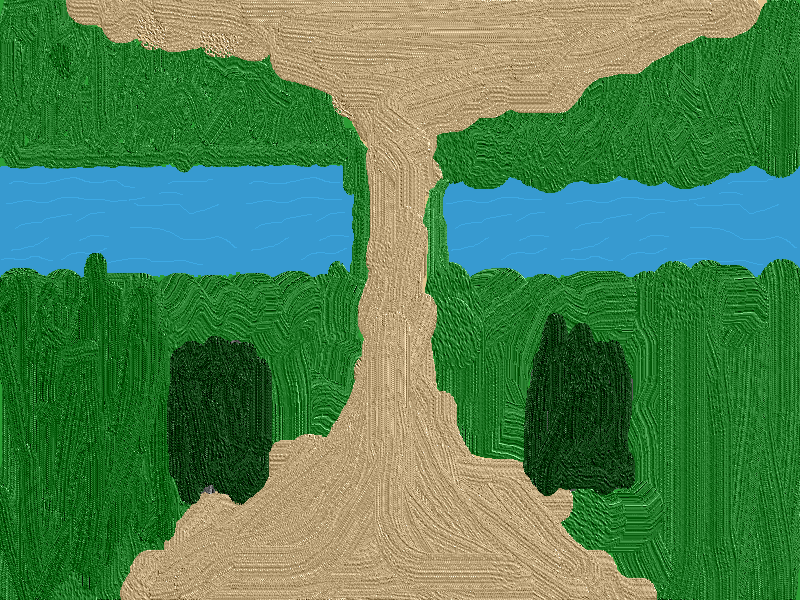
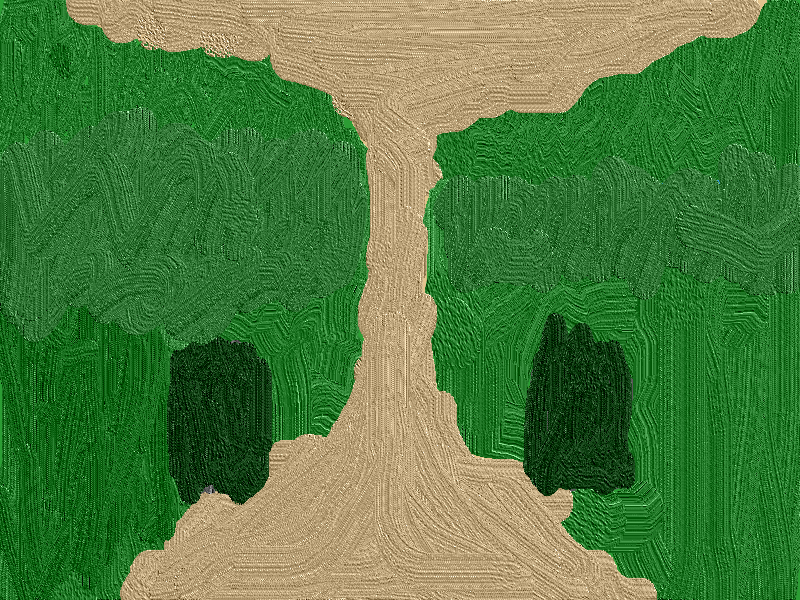
Removed 2 Lake Obstacles to make avoidance easier

Changed region(s): [[0.0, 0.18, 0.4688, 0.6], [0.5312, 0.24, 1.0, 0.51]]

diff --git a/src/PlayScene.cpp b/src/PlayScene.cpp
@@ -867,68 +867,68 @@ void PlayScene::update()
 			}
 		}
 	}
-	//Avoidance TODO
-	for (int i = 0; i < Enemies; i++)
-	{
-		if(m_pEnemy[i]->patrol==false)
-		{
-			for (int y = 0; y < obstacles; y++)
-			{
-				//Left whishker
-				if (CollisionManager::lineRectCheck(m_pEnemy[i]->m_LWhishker.Start(),
-					m_pEnemy[i]->m_LWhishker.End(), m_field[y]->getTransform()->position-
-					glm::vec2(m_field[y]->getWidth()/2, m_field[y]->getHeight()/2),
-					m_field[y]->getWidth(), m_field[y]->getHeight()))
-				{
-					m_pEnemy[i]->ColObsL = y;
-					m_pEnemy[i]->tRight = true;
-					m_pEnemy[i]->avoidance = true;
-				}
-				if(m_pEnemy[i]->ColObsL!=100)
-				{
-					if (!(CollisionManager::lineRectCheck(m_pEnemy[i]->m_LWhishker.Start(),
-						m_pEnemy[i]->m_LWhishker.End(), m_field[m_pEnemy[i]->ColObsL]->getTransform()->position -
-						glm::vec2(m_field[m_pEnemy[i]->ColObsL]->getWidth() / 2, m_field[m_pEnemy[i]->ColObsL]->getHeight() / 2),
-						m_field[m_pEnemy[i]->ColObsL]->getWidth(), m_field[m_pEnemy[i]->ColObsL]->getHeight())))
-					{
-						m_pEnemy[i]->tRight = false;
-						m_pEnemy[i]->avocd = 0;
-						if(m_pEnemy[i]->avocd>1)
-						{
-							m_pEnemy[i]->avoidance = false;
-							m_pEnemy[i]->ColObsL = 100;
-						}
-					}
-				}
-				//Right Whishker
-				if (CollisionManager::lineRectCheck(m_pEnemy[i]->m_RWhishker.Start(),
-					m_pEnemy[i]->m_RWhishker.End(), m_field[y]->getTransform()->position -
-					glm::vec2(m_field[y]->getWidth() / 2, m_field[y]->getHeight() / 2),
-					m_field[y]->getWidth(), m_field[y]->getHeight()))
-				{
-					m_pEnemy[i]->ColObsR = y;
-					m_pEnemy[i]->avoidance = true;
-					m_pEnemy[i]->tLeft = true;
-				}
-				if (m_pEnemy[i]->ColObsR != 100)
-				{
-					if (!(CollisionManager::lineRectCheck(m_pEnemy[i]->m_RWhishker.Start(),
-						m_pEnemy[i]->m_RWhishker.End(), m_field[m_pEnemy[i]->ColObsR]->getTransform()->position -
-						glm::vec2(m_field[m_pEnemy[i]->ColObsR]->getWidth() / 2, m_field[m_pEnemy[i]->ColObsR]->getHeight() / 2),
-						m_field[m_pEnemy[i]->ColObsR]->getWidth(), m_field[m_pEnemy[i]->ColObsR]->getHeight())))
-					{
-						m_pEnemy[i]->tLeft = false;
-						m_pEnemy[i]->avocd = 0;
-						if (m_pEnemy[i]->avocd > 1)
-						{
-							m_pEnemy[i]->avoidance = false;
-							m_pEnemy[i]->ColObsL = 100;
-						}
-					}
-				}
-			}
-		}
-	}
+	////Avoidance TODO
+	//for (int i = 0; i < Enemies; i++)
+	//{
+	//	if(m_pEnemy[i]->patrol==false)
+	//	{
+	//		for (int y = 0; y < obstacles; y++)
+	//		{
+	//			//Left whishker
+	//			if (CollisionManager::lineRectCheck(m_pEnemy[i]->m_LWhishker.Start(),
+	//				m_pEnemy[i]->m_LWhishker.End(), m_field[y]->getTransform()->position-
+	//				glm::vec2(m_field[y]->getWidth()/2, m_field[y]->getHeight()/2),
+	//				m_field[y]->getWidth(), m_field[y]->getHeight()))
+	//			{
+	//				m_pEnemy[i]->ColObsL = y;
+	//				m_pEnemy[i]->tRight = true;
+	//				m_pEnemy[i]->avoidance = true;
+	//			}
+	//			if(m_pEnemy[i]->ColObsL!=100)
+	//			{
+	//				if (!(CollisionManager::lineRectCheck(m_pEnemy[i]->m_LWhishker.Start(),
+	//					m_pEnemy[i]->m_LWhishker.End(), m_field[m_pEnemy[i]->ColObsL]->getTransform()->position -
+	//					glm::vec2(m_field[m_pEnemy[i]->ColObsL]->getWidth() / 2, m_field[m_pEnemy[i]->ColObsL]->getHeight() / 2),
+	//					m_field[m_pEnemy[i]->ColObsL]->getWidth(), m_field[m_pEnemy[i]->ColObsL]->getHeight())))
+	//				{
+	//					m_pEnemy[i]->tRight = false;
+	//					m_pEnemy[i]->avocd = 0;
+	//					if(m_pEnemy[i]->avocd>1)
+	//					{
+	//						m_pEnemy[i]->avoidance = false;
+	//						m_pEnemy[i]->ColObsL = 100;
+	//					}
+	//				}
+	//			}
+	//			//Right Whishker
+	//			if (CollisionManager::lineRectCheck(m_pEnemy[i]->m_RWhishker.Start(),
+	//				m_pEnemy[i]->m_RWhishker.End(), m_field[y]->getTransform()->position -
+	//				glm::vec2(m_field[y]->getWidth() / 2, m_field[y]->getHeight() / 2),
+	//				m_field[y]->getWidth(), m_field[y]->getHeight()))
+	//			{
+	//				m_pEnemy[i]->ColObsR = y;
+	//				m_pEnemy[i]->avoidance = true;
+	//				m_pEnemy[i]->tLeft = true;
+	//			}
+	//			if (m_pEnemy[i]->ColObsR != 100)
+	//			{
+	//				if (!(CollisionManager::lineRectCheck(m_pEnemy[i]->m_RWhishker.Start(),
+	//					m_pEnemy[i]->m_RWhishker.End(), m_field[m_pEnemy[i]->ColObsR]->getTransform()->position -
+	//					glm::vec2(m_field[m_pEnemy[i]->ColObsR]->getWidth() / 2, m_field[m_pEnemy[i]->ColObsR]->getHeight() / 2),
+	//					m_field[m_pEnemy[i]->ColObsR]->getWidth(), m_field[m_pEnemy[i]->ColObsR]->getHeight())))
+	//				{
+	//					m_pEnemy[i]->tLeft = false;
+	//					m_pEnemy[i]->avocd = 0;
+	//					if (m_pEnemy[i]->avocd > 1)
+	//					{
+	//						m_pEnemy[i]->avoidance = false;
+	//						m_pEnemy[i]->ColObsL = 100;
+	//					}
+	//				}
+	//			}
+	//		}
+	//	}
+	//}
 
 		////Win Condition
 	if (m_pPlayer->isEnabled() == false)
@@ -1309,30 +1309,30 @@ void PlayScene::start()
 		addChild(m_field[0], 1);
 		m_pMap.push_back(m_field[0]);
 
+		//m_field[1] = new TileC("../Assets/grid/River120.png", "120");
+		//m_field[1]->getTransform()->position = m_getTile(4, 5)->getTransform()->position + offsetTiles1;
+		//addChild(m_field[1], 1);
+		//m_pMap.push_back(m_field[1]);
+
 		m_field[1] = new TileC("../Assets/grid/River120.png", "120");
-		m_field[1]->getTransform()->position = m_getTile(4, 5)->getTransform()->position + offsetTiles1;
+		m_field[1]->getTransform()->position = m_getTile(7, 5)->getTransform()->position + offsetTiles1;
 		addChild(m_field[1], 1);
 		m_pMap.push_back(m_field[1]);
 
-		m_field[2] = new TileC("../Assets/grid/River120.png", "120");
-		m_field[2]->getTransform()->position = m_getTile(7, 5)->getTransform()->position + offsetTiles1;
-		addChild(m_field[2], 1);
+		m_field[2] = new TileC("/Assets/grid/River120.png", "120");
+		m_field[2]->getTransform()->position = m_getTile(12, 5)->getTransform()->position + offsetTiles1;
+		addChild(m_field[2], 2);
 		m_pMap.push_back(m_field[2]);
 
-		m_field[3] = new TileC("/Assets/grid/River120.png", "120");
-		m_field[3]->getTransform()->position = m_getTile(12, 5)->getTransform()->position + offsetTiles1;
-		addChild(m_field[3], 2);
+		//m_field[3] = new TileC("../Assets/grid/River120.png", "120");
+		//m_field[3]->getTransform()->position = m_getTile(15, 5)->getTransform()->position + offsetTiles1;
+		//addChild(m_field[3], 1);
+		//m_pMap.push_back(m_field[3]);
+
+		m_field[3] = new TileC("../Assets/grid/River120.png", "120");
+		m_field[3]->getTransform()->position = m_getTile(18, 5)->getTransform()->position + offsetTiles1;
+		addChild(m_field[3], 1);
 		m_pMap.push_back(m_field[3]);
-
-		m_field[4] = new TileC("../Assets/grid/River120.png", "120");
-		m_field[4]->getTransform()->position = m_getTile(15, 5)->getTransform()->position + offsetTiles1;
-		addChild(m_field[4], 1);
-		m_pMap.push_back(m_field[4]);
-
-		m_field[5] = new TileC("../Assets/grid/River120.png", "120");
-		m_field[5]->getTransform()->position = m_getTile(18, 5)->getTransform()->position + offsetTiles1;
-		addChild(m_field[5], 1);
-		m_pMap.push_back(m_field[5]);
 	}
 
 	//Destructibles
@@ -1721,18 +1721,12 @@ void PlayScene::m_buildGridSight()
 			addChild(path_node, 5); // 04 86
 			//Exceptions and creation
 			{
-				if ((col == 0 && row == 4) || (col == 1 && row == 4) || (col == 2 && row == 4) || (col == 3 && row == 4) || (col == 4 && row == 4) ||
-					(col == 5 && row == 4) || (col == 6 && row == 4) || (col == 7 && row == 4) || (col == 8 && row == 4) ||
-					(col == 0 && row == 5) || (col == 1 && row == 5) || (col == 2 && row == 5) || (col == 3 && row == 5) ||
-					(col == 4 && row == 5) || (col == 5 && row == 5) || (col == 6 && row == 5) || (col == 7 && row == 5) || (col == 8 && row == 5) ||
-					(col == 0 && row == 6) || (col == 1 && row == 6) || (col == 2 && row == 6) || (col == 3 && row == 6) ||
-					(col == 4 && row == 6) || (col == 5 && row == 6) || (col == 6 && row == 6) || (col == 7 && row == 6) || (col == 8 && row == 6) ||
-					(col == 11 && row == 4) || (col == 12 && row == 4) || (col == 13 && row == 4) || (col == 14 && row == 4) || (col == 15 && row == 4) ||
-					(col == 16 && row == 4) || (col == 17 && row == 4) || (col == 18 && row == 4) || (col == 19 && row == 4) ||
-					(col == 11 && row == 5) || (col == 12 && row == 5) || (col == 13 && row == 5) || (col == 14 && row == 5) ||
-					(col == 15 && row == 5) || (col == 16 && row == 5) || (col == 17 && row == 5) || (col == 18 && row == 5) || (col == 19 && row == 5) ||
-					(col == 11 && row == 6) || (col == 12 && row == 6) || (col == 13 && row == 6) || (col == 14 && row == 6) ||
-					(col == 15 && row == 6) || (col == 16 && row == 6) || (col == 17 && row == 6) || (col == 18 && row == 6) || (col == 19 && row == 6))
+				if ((col == 0 && row == 4) || (col == 1 && row == 4) || (col == 2 && row == 4) || (col == 6 && row == 4) || (col == 7 && row == 4) || (col == 8 && row == 4) ||
+					(col == 0 && row == 5) || (col == 1 && row == 5) || (col == 2 && row == 5) || (col == 6 && row == 5) || (col == 7 && row == 5) || (col == 8 && row == 5) ||
+					(col == 0 && row == 6) || (col == 1 && row == 6) || (col == 2 && row == 6) || (col == 6 && row == 6) || (col == 7 && row == 6) || (col == 8 && row == 6) ||
+					(col == 11 && row == 4) || (col == 12 && row == 4) || (col == 13 && row == 4) || (col == 17 && row == 4) || (col == 18 && row == 4) || (col == 19 && row == 4) ||
+					(col == 11 && row == 5) || (col == 12 && row == 5) || (col == 13 && row == 5) || (col == 17 && row == 5) || (col == 18 && row == 5) || (col == 19 && row == 5) ||
+					(col == 11 && row == 6) || (col == 12 && row == 6) || (col == 13 && row == 6) ||  (col == 17 && row == 6) || (col == 18 && row == 6) || (col == 19 && row == 6))
 				{
 
 				}// 49 6 11

diff --git a/src/Enemy.cpp b/src/Enemy.cpp
@@ -245,10 +245,10 @@ void Enemy::m_Move()
 				setMaxSpeed(1.5f);
 				setTurnRate(10.0f);
 				setRotation(getRotation() - getTurnRate());
-				if (getRotation()<-90.0f)
-				{
-					setRotation(-90.0f);
-				}
+				//if (getRotation()<-90.0f)
+				//{
+				//	setRotation(-90.0f);
+				//}
 			}
 			//TODO Heavily Polish This
 			//Turn Right
@@ -257,10 +257,10 @@ void Enemy::m_Move()
 				setMaxSpeed(1.5f);
 				setTurnRate(10.0f);
 				setRotation(getRotation() + getTurnRate());
-				if (getRotation() > 90.0f)
-				{
-					setRotation(90.0f);
-				}
+				//if (getRotation() > 90.0f)
+				//{
+				//	setRotation(90.0f);
+				//}
 			}
 
 			if (move == true)

diff --git a/src/PlayScene.h b/src/PlayScene.h
@@ -83,7 +83,7 @@ private:
 	
 	//Map
 	TileC* Bg;
-	int obstacles = 6;
+	int obstacles = 4;
 	TileC* m_field[6];
 	int dest = 2;
 	DestructibleObstacle* m_dField[2];
